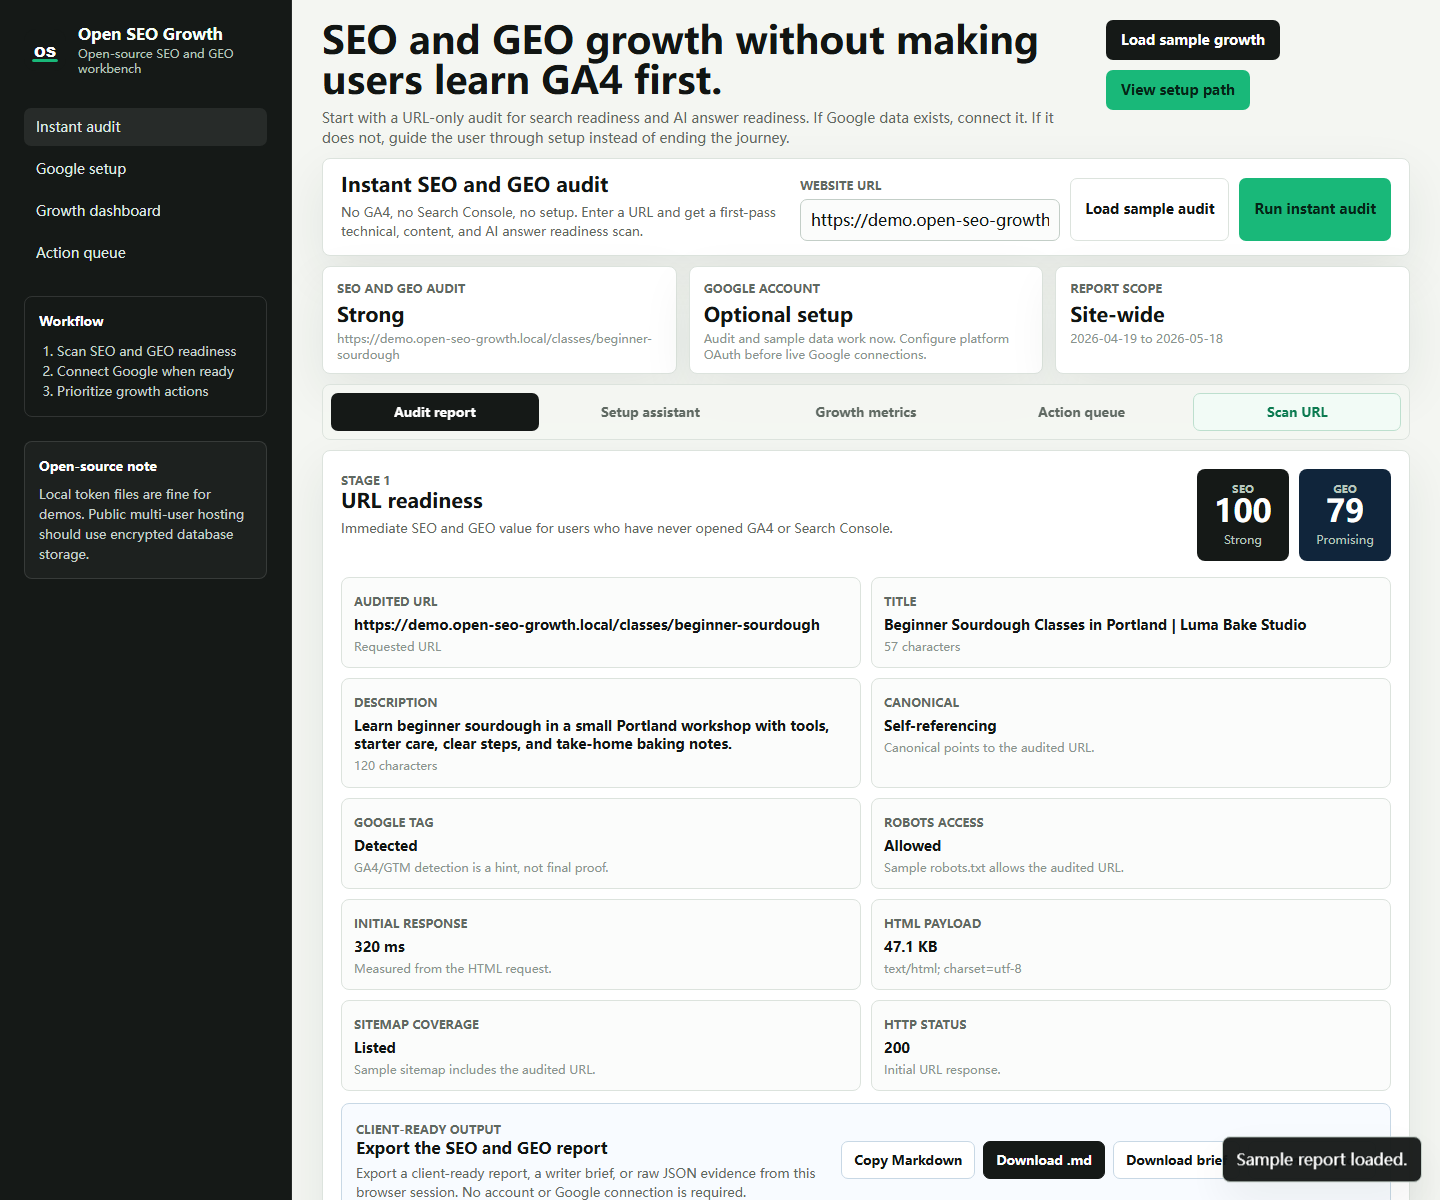
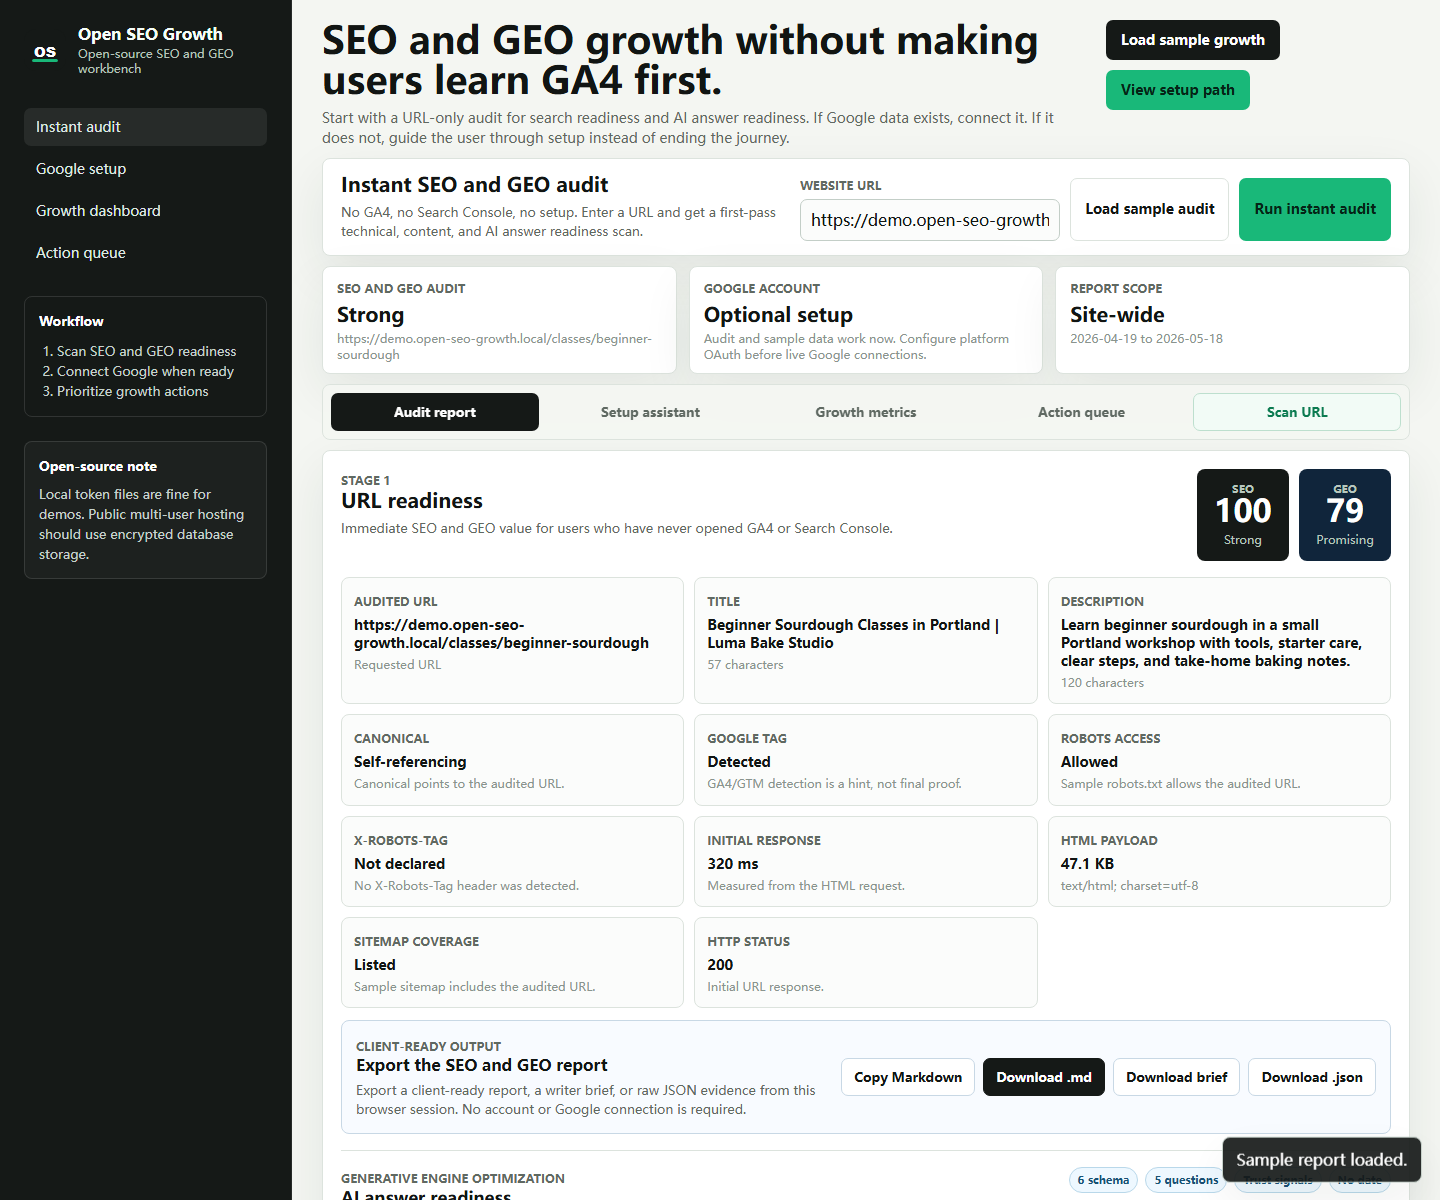
Audit X-Robots-Tag indexability

Changed region(s): [[0.2188, 0.4933, 0.9688, 1.0]]

diff --git a/static/app.js b/static/app.js
@@ -89,6 +89,14 @@ function sitemapCoverageNote(coverage) {
   return coverage?.reason || "Sitemap coverage was not checked.";
 }
 
+function xRobotsLabel(status) {
+  return status?.status || "Not checked";
+}
+
+function xRobotsNote(status) {
+  return status?.reason || "X-Robots-Tag header was not checked.";
+}
+
 function isoDate() {
   return new Date().toISOString().slice(0, 10);
 }
@@ -514,6 +522,7 @@ function buildAuditMarkdown(audit) {
     `- Google tag: ${summary.ga4_detected || summary.gtm_detected ? "Detected" : "Not detected"}`,
     `- Canonical: ${canonicalLabel(summary.canonical_status)}`,
     `- Robots access: ${robotsAccessLabel(summary.robots_access)}`,
+    `- X-Robots-Tag: ${xRobotsLabel(summary.x_robots_tag)}`,
     `- Sitemap coverage: ${sitemapCoverageLabel(summary.sitemap_coverage)}`,
     `- Initial HTML response: ${milliseconds(summary.response_time_ms)}`,
     `- Initial HTML payload: ${kilobytes(summary.html_kb)}`,
@@ -566,6 +575,8 @@ function buildAuditMarkdown(audit) {
     `- Question headings: ${(summary.question_headings || []).join(" | ") || "None detected"}`,
     `- Published date: ${summary.date_published || geoSignals.date_published || "Not detected"}`,
     `- Updated date: ${summary.date_modified || geoSignals.date_modified || "Not detected"}`,
+    `- Robots meta: ${summary.robots_meta || "Not declared"}`,
+    `- X-Robots-Tag: ${summary.x_robots_tag?.value || xRobotsLabel(summary.x_robots_tag)} - ${xRobotsNote(summary.x_robots_tag)}`,
     `- robots.txt: ${summary.robots?.ok ? "Reachable" : "Not reachable"}`,
     `- robots.txt URL access: ${robotsAccessLabel(summary.robots_access)} - ${robotsAccessNote(summary.robots_access)}`,
     `- sitemap.xml: ${summary.sitemap?.ok ? "Reachable" : "Not reachable"}`,
@@ -1033,6 +1044,9 @@ function renderAudit(audit) {
   const responseTime = milliseconds(summary.response_time_ms);
   const robotsLabel = robotsAccessLabel(summary.robots_access);
   const robotsNote = robotsAccessNote(summary.robots_access);
+  const xRobotsStatus = summary.x_robots_tag || {};
+  const xRobotsStatusLabel = xRobotsLabel(xRobotsStatus);
+  const xRobotsStatusNote = xRobotsNote(xRobotsStatus);
   const canonicalStatus = summary.canonical_status || {};
   const canonicalStatusLabel = canonicalLabel(canonicalStatus);
   const canonicalStatusNote = canonicalNote(canonicalStatus);
@@ -1069,6 +1083,11 @@ function renderAudit(audit) {
       <span>Robots access</span>
       <strong>${escapeHtml(robotsLabel)}</strong>
       <small>${escapeHtml(robotsNote)}</small>
+    </article>
+    <article>
+      <span>X-Robots-Tag</span>
+      <strong>${escapeHtml(xRobotsStatusLabel)}</strong>
+      <small>${escapeHtml(xRobotsStatusNote)}</small>
     </article>
     <article>
       <span>Initial response</span>

diff --git a/static/styles.css b/static/styles.css
@@ -432,7 +432,7 @@ select {
 
 .audit-summary {
   display: grid;
-  grid-template-columns: repeat(2, minmax(0, 1fr));
+  grid-template-columns: repeat(3, minmax(0, 1fr));
   gap: 10px;
   margin-bottom: 12px;
 }
@@ -1636,6 +1636,10 @@ select {
 }
 
 @media (max-width: 1180px) {
+  .audit-summary {
+    grid-template-columns: repeat(2, minmax(0, 1fr));
+  }
+
   .metric-grid {
     grid-template-columns: repeat(3, minmax(0, 1fr));
   }

diff --git a/seo_growth/instant_audit.py b/seo_growth/instant_audit.py
@@ -207,6 +207,32 @@ def evaluate_sitemap_coverage(sitemap: dict[str, Any], sitemap_text: str, audite
     }
 
 
+def evaluate_x_robots_tag(value: str) -> dict[str, Any]:
+    raw = " ".join((value or "").split())
+    if not raw:
+        return {
+            "declared": False,
+            "ok": True,
+            "status": "Not declared",
+            "value": "",
+            "blocking_directives": [],
+            "reason": "No X-Robots-Tag header was detected.",
+        }
+    lowered = raw.lower()
+    blocking = []
+    for directive in ("noindex", "none"):
+        if re.search(rf"\b{re.escape(directive)}\b", lowered):
+            blocking.append(directive)
+    return {
+        "declared": True,
+        "ok": not blocking,
+        "status": "Blocks indexing" if blocking else "Allows indexing",
+        "value": raw,
+        "blocking_directives": blocking,
+        "reason": "X-Robots-Tag contains an indexing blocker." if blocking else "X-Robots-Tag does not contain noindex or none.",
+    }
+
+
 @dataclass
 class PageSignals:
     title: str = ""
@@ -619,14 +645,17 @@ def build_geo_report(
     robots: dict[str, Any],
     llms_txt: dict[str, Any],
     robots_access: dict[str, Any] | None = None,
+    x_robots_tag: dict[str, Any] | None = None,
 ) -> dict[str, Any]:
     words = word_count(signals.body_text)
     trust_matches = sorted({match.group(0).lower() for match in TRUST_RE.finditer(signals.body_text)})
     has_faq_signal = "FAQPage" in signals.schema_types or bool(signals.question_headings) or "frequently asked" in signals.body_text.lower()
     has_freshness_signal = bool(signals.date_published or signals.date_modified)
     robots_access = robots_access or {}
+    x_robots_tag = x_robots_tag or {}
     robots_rules_ok = robots_access.get("allowed") is not False
-    search_access_ok = "noindex" not in signals.robots_meta.lower() and robots_rules_ok
+    x_robots_ok = x_robots_tag.get("ok") is not False
+    search_access_ok = "noindex" not in signals.robots_meta.lower() and robots_rules_ok and x_robots_ok
     checks = [
         {
             "id": "crawlable_text",
@@ -679,10 +708,10 @@ def build_geo_report(
         },
         {
             "id": "search_access",
-            "label": "Page is not blocked by robots meta or robots.txt",
+            "label": "Page is not blocked by robots meta, X-Robots-Tag, or robots.txt",
             "ok": search_access_ok,
             "weight": 8,
-            "fix": "Remove noindex or robots.txt disallow rules unless this page should stay out of search and AI discovery surfaces.",
+            "fix": "Remove noindex, X-Robots-Tag, or robots.txt disallow rules unless this page should stay out of search and AI discovery surfaces.",
         },
         {
             "id": "meta_summary",
@@ -727,6 +756,7 @@ def build_geo_report(
             "date_modified": signals.date_modified,
             "external_hosts": signals.external_hosts[:8],
             "robots_access": robots_access,
+            "x_robots_tag": x_robots_tag,
             "llms_txt": llms_txt,
         },
         "checks": checks,
@@ -753,6 +783,7 @@ def build_audit_response(
     llms_txt: dict[str, Any],
     robots_access: dict[str, Any] | None = None,
     sitemap_coverage: dict[str, Any] | None = None,
+    x_robots_tag: str = "",
     response_time_ms: int | None = None,
     html_bytes: int | None = None,
     content_type: str = "",
@@ -765,7 +796,8 @@ def build_audit_response(
     robots_access = robots_access or {}
     sitemap_coverage = sitemap_coverage or {}
     canonical_status = evaluate_canonical(signals.canonical, final_url or audited_url)
-    geo_report = build_geo_report(signals, robots, llms_txt, robots_access=robots_access)
+    x_robots_status = evaluate_x_robots_tag(x_robots_tag)
+    geo_report = build_geo_report(signals, robots, llms_txt, robots_access=robots_access, x_robots_tag=x_robots_status)
     html_kb = round(html_bytes / 1024, 1) if html_bytes is not None else None
     response_time_ok = response_time_ms is not None and response_time_ms <= 2000
     html_size_ok = html_bytes is not None and html_bytes <= 500_000
@@ -778,15 +810,16 @@ def build_audit_response(
         {"id": "h1", "label": "Exactly one H1 found", "ok": len(signals.h1) == 1, "weight": 10, "fix": "Use one clear H1 that matches the page intent."},
         {"id": "canonical", "label": "Canonical URL is declared", "ok": canonical_status["declared"], "weight": 4, "fix": "Add a canonical link to the preferred URL."},
         {"id": "canonical_target", "label": "Canonical points to the audited URL", "ok": canonical_status["ok"], "weight": 4, "fix": "Update the canonical tag if this page should be indexed as its own search result."},
-        {"id": "robots_meta", "label": "Page is not blocked by robots meta", "ok": "noindex" not in signals.robots_meta.lower(), "weight": 10, "fix": "Remove noindex unless the page should stay out of Google."},
+        {"id": "robots_meta", "label": "Page is not blocked by robots meta", "ok": "noindex" not in signals.robots_meta.lower(), "weight": 8, "fix": "Remove noindex unless the page should stay out of Google."},
+        {"id": "x_robots_tag", "label": "X-Robots-Tag header does not block indexing", "ok": x_robots_status["ok"], "weight": 6, "fix": "Remove X-Robots-Tag noindex or none unless this URL should stay out of search."},
         {"id": "robots_txt", "label": "robots.txt is reachable", "ok": bool(robots.get("ok")), "weight": 5, "fix": "Expose robots.txt at the site root."},
         {"id": "robots_rules", "label": "Audited URL is allowed by robots.txt", "ok": robots_rules_ok, "weight": 5, "fix": "Update robots.txt so search crawlers can fetch this URL, or choose a page that should be indexable."},
         {"id": "sitemap", "label": "sitemap.xml is reachable", "ok": bool(sitemap.get("ok")), "weight": 4, "fix": "Publish a sitemap and submit it in Search Console."},
         {"id": "sitemap_coverage", "label": "Audited URL is represented in sitemap", "ok": sitemap_coverage_ok, "weight": 3, "fix": "Add this URL to the sitemap, or verify the child sitemap where it should appear."},
-        {"id": "image_alt", "label": "Images have alt text", "ok": signals.images == 0 or signals.images_missing_alt == 0, "weight": 4, "fix": "Add descriptive alt text to important images."},
-        {"id": "internal_links", "label": "Internal links exist", "ok": signals.links_internal > 0, "weight": 4, "fix": "Add links to important pages so Google and users can continue."},
-        {"id": "schema", "label": "Structured data is present", "ok": bool(signals.schema_types), "weight": 4, "fix": "Add Organization, WebSite, Article, Product, or relevant schema."},
-        {"id": "analytics", "label": "Analytics tag is detectable", "ok": signals.ga4_detected or signals.gtm_detected, "weight": 4, "fix": "Install GA4 or Google Tag Manager before expecting traffic reports."},
+        {"id": "image_alt", "label": "Images have alt text", "ok": signals.images == 0 or signals.images_missing_alt == 0, "weight": 3, "fix": "Add descriptive alt text to important images."},
+        {"id": "internal_links", "label": "Internal links exist", "ok": signals.links_internal > 0, "weight": 3, "fix": "Add links to important pages so Google and users can continue."},
+        {"id": "schema", "label": "Structured data is present", "ok": bool(signals.schema_types), "weight": 3, "fix": "Add Organization, WebSite, Article, Product, or relevant schema."},
+        {"id": "analytics", "label": "Analytics tag is detectable", "ok": signals.ga4_detected or signals.gtm_detected, "weight": 3, "fix": "Install GA4 or Google Tag Manager before expecting traffic reports."},
         {"id": "response_time", "label": "Initial HTML response is reasonably fast", "ok": response_time_ok, "weight": 4, "fix": "Improve server response time, redirects, caching, or hosting until the initial HTML returns in under two seconds."},
         {"id": "html_size", "label": "HTML payload is not unusually heavy", "ok": html_size_ok, "weight": 1, "fix": "Reduce server-rendered HTML weight, inline scripts, or bloated markup so the initial document stays under 500 KB."},
     ]
@@ -854,6 +887,7 @@ def build_audit_response(
             "canonical": signals.canonical,
             "canonical_status": canonical_status,
             "robots_meta": signals.robots_meta,
+            "x_robots_tag": x_robots_status,
             "images": signals.images,
             "images_missing_alt": signals.images_missing_alt,
             "internal_links": signals.links_internal,
@@ -906,6 +940,7 @@ def instant_audit(raw_url: str) -> dict[str, Any]:
         llms_txt=llms_txt,
         robots_access=robots_access,
         sitemap_coverage=sitemap_coverage,
+        x_robots_tag=response.headers.get("x-robots-tag", ""),
         response_time_ms=response_time_ms,
         html_bytes=html_bytes,
         content_type=response.headers.get("content-type", ""),
@@ -986,6 +1021,7 @@ def sample_audit() -> dict[str, Any]:
             "child_sitemap_count": 0,
             "child_sitemaps": [],
         },
+        x_robots_tag="",
         response_time_ms=320,
         html_bytes=48_200,
         content_type="text/html; charset=utf-8",

diff --git a/tests/test_instant_audit.py b/tests/test_instant_audit.py
@@ -8,6 +8,7 @@ from seo_growth.instant_audit import (
     build_geo_report,
     evaluate_robots_access,
     evaluate_sitemap_coverage,
+    evaluate_x_robots_tag,
     normalize_url,
     sample_audit,
 )
@@ -85,6 +86,7 @@ def test_sample_audit_is_export_ready_and_has_geo_evidence():
     assert audit["summary"]["canonical_status"]["status"] == "Self-referencing"
     assert audit["summary"]["robots_access"]["allowed"] is True
     assert audit["summary"]["sitemap_coverage"]["status"] == "Listed"
+    assert audit["summary"]["x_robots_tag"]["status"] == "Not declared"
     assert geo["score"] == 79
     assert geo["grade"] == "Promising"
     assert geo_checks["llms_txt"]["experimental"] is True
@@ -213,6 +215,45 @@ def test_sitemap_coverage_flags_missing_audited_url():
     assert checks["sitemap_coverage"]["ok"] is False
     assert audit["summary"]["sitemap_coverage"]["url_count"] == 1
     assert audit["score"] == 97
+
+
+def test_x_robots_tag_noindex_blocks_search_access():
+    x_robots = evaluate_x_robots_tag("googlebot: noindex, nofollow")
+    signals = PageSignals(
+        title="Header Blocked SEO Audit Page for Growing Teams",
+        description="A practical SEO audit page that is blocked by an HTTP X-Robots-Tag header.",
+        canonical="https://example.com/header-blocked",
+        robots_meta="index,follow",
+        h1=["Header Blocked SEO Audit Page"],
+        body_text="This page explains technical SEO, content quality, analytics setup, and practical growth opportunities.",
+        links_internal=2,
+        schema_types=["Organization", "WebSite"],
+        ga4_detected=True,
+    )
+    audit = build_audit_response(
+        audited_url="https://example.com/header-blocked",
+        status_code=200,
+        signals=signals,
+        robots={"ok": True, "status_code": 200, "url": "https://example.com/robots.txt"},
+        sitemap={"ok": True, "status_code": 200, "url": "https://example.com/sitemap.xml"},
+        llms_txt={"ok": False, "status_code": 404, "url": "https://example.com/llms.txt"},
+        robots_access={"checked": True, "allowed": True, "status": "Allowed"},
+        sitemap_coverage={"checked": True, "included": True, "status": "Listed"},
+        x_robots_tag="googlebot: noindex, nofollow",
+        response_time_ms=320,
+        html_bytes=48_200,
+        content_type="text/html",
+        final_url="https://example.com/header-blocked",
+    )
+    checks = {item["id"]: item for item in audit["checks"]}
+    geo_checks = {item["id"]: item for item in audit["geo_report"]["checks"]}
+
+    assert x_robots["ok"] is False
+    assert x_robots["blocking_directives"] == ["noindex"]
+    assert checks["x_robots_tag"]["ok"] is False
+    assert geo_checks["search_access"]["ok"] is False
+    assert audit["summary"]["x_robots_tag"]["status"] == "Blocks indexing"
+    assert audit["score"] == 94
 
 
 def test_robots_access_blocks_exact_audited_url():

diff --git a/README.md b/README.md
@@ -16,7 +16,7 @@ Runtime screenshot captured from the running Flask app at `http://127.0.0.1:8792
 
 ## What You Can Run Today
 
-- Instant URL audit with no Google setup, including HTTP status, canonical target, sitemap coverage, response timing, HTML payload, and exact robots.txt access evidence
+- Instant URL audit with no Google setup, including HTTP status, canonical target, sitemap coverage, X-Robots-Tag, response timing, HTML payload, and exact robots.txt access evidence
 - GEO readiness scan for crawlable text, answer structure, schema, trust signals, freshness, references, and optional `llms.txt`
 - Prompt-safe GEO writer brief generated from audit evidence
 - Client-ready Markdown export and JSON evidence export from the browser, including technical response evidence
@@ -119,7 +119,7 @@ The instant audit includes a Generative Engine Optimization readiness report. It
 - trust signals such as author, organization, about, contact, privacy, sources, or editorial references
 - published or updated date signals
 - external references where appropriate
-- indexability, robots meta, exact robots.txt URL access, and sitemap URL coverage
+- indexability, robots meta, X-Robots-Tag, exact robots.txt URL access, and sitemap URL coverage
 - optional `/llms.txt`
 
 This score is a heuristic, not a guarantee of AI citation, inclusion, or ranking. See [docs/geo-readiness.md](docs/geo-readiness.md).

diff --git a/docs/architecture.md b/docs/architecture.md
@@ -25,7 +25,7 @@ Browser UI
 
 The user enters a URL and receives an instant technical, on-page, and GEO readiness audit. This mode does not require OAuth, GA4, or Search Console.
 
-The audit records the final fetched URL, redirect status, HTTP status, canonical target status, sitemap URL coverage, content type, initial HTML response time, HTML payload size, and exact robots.txt access for the audited URL. These signals are included in the SEO score, browser summary, Markdown report, JSON export, and action queue when they fail.
+The audit records the final fetched URL, redirect status, HTTP status, canonical target status, sitemap URL coverage, X-Robots-Tag status, content type, initial HTML response time, HTML payload size, and exact robots.txt access for the audited URL. These signals are included in the SEO score, browser summary, Markdown report, JSON export, and action queue when they fail.
 
 The GEO report is generated from the same fetched HTML. It looks for visible content depth, clear page topic signals, structured data, answer-led sections, trust evidence, freshness dates, external references, search access, and optional `/llms.txt`.
 

diff --git a/docs/geo-readiness.md b/docs/geo-readiness.md
@@ -12,7 +12,7 @@ Open SEO Growth treats GEO as a practical readiness layer on top of regular SEO.
 - Question-led or answer-led sections.
 - Trust signals such as author, site name, about, contact, privacy, terms, sources, references, or editorial language.
 - External references where claims benefit from citations.
-- Search access through noindex checks and exact robots.txt URL permission.
+- Search access through robots meta noindex, X-Robots-Tag noindex, and exact robots.txt URL permission.
 - Sitemap coverage for the audited URL when the root sitemap is a direct URL set.
 - Published or updated date signals from visible markup or JSON-LD.
 - Optional `/llms.txt` availability.